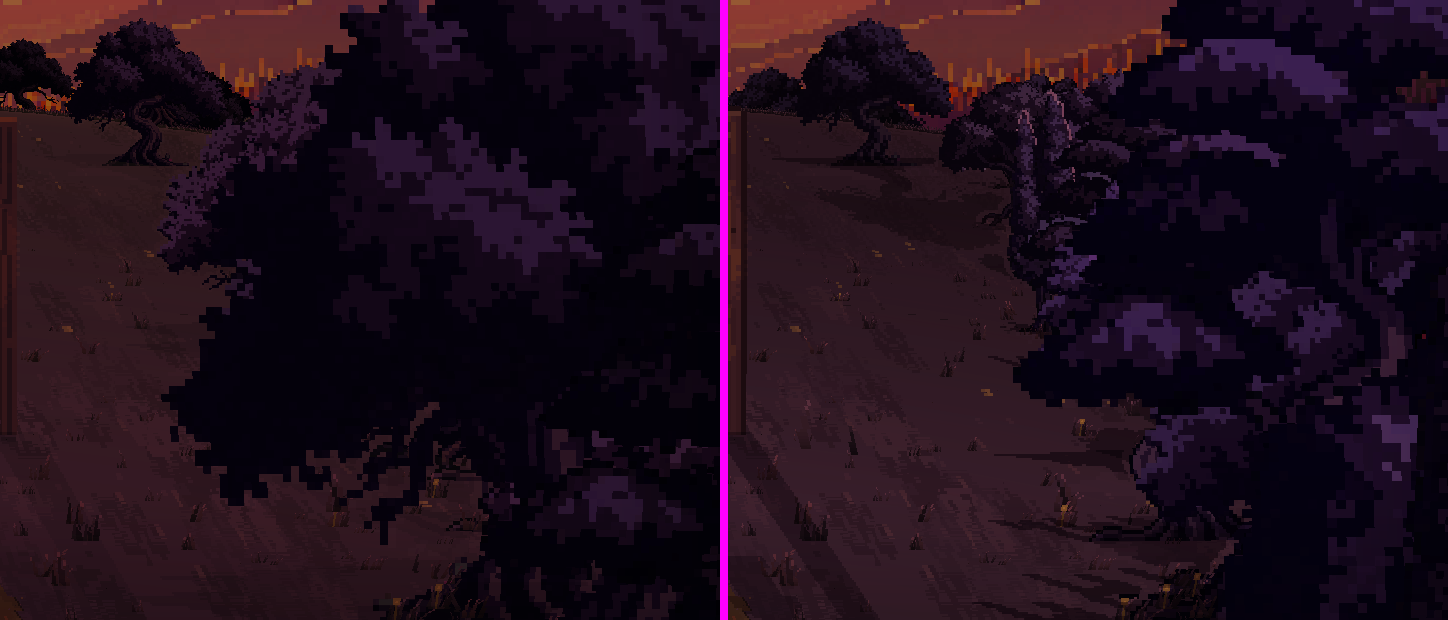
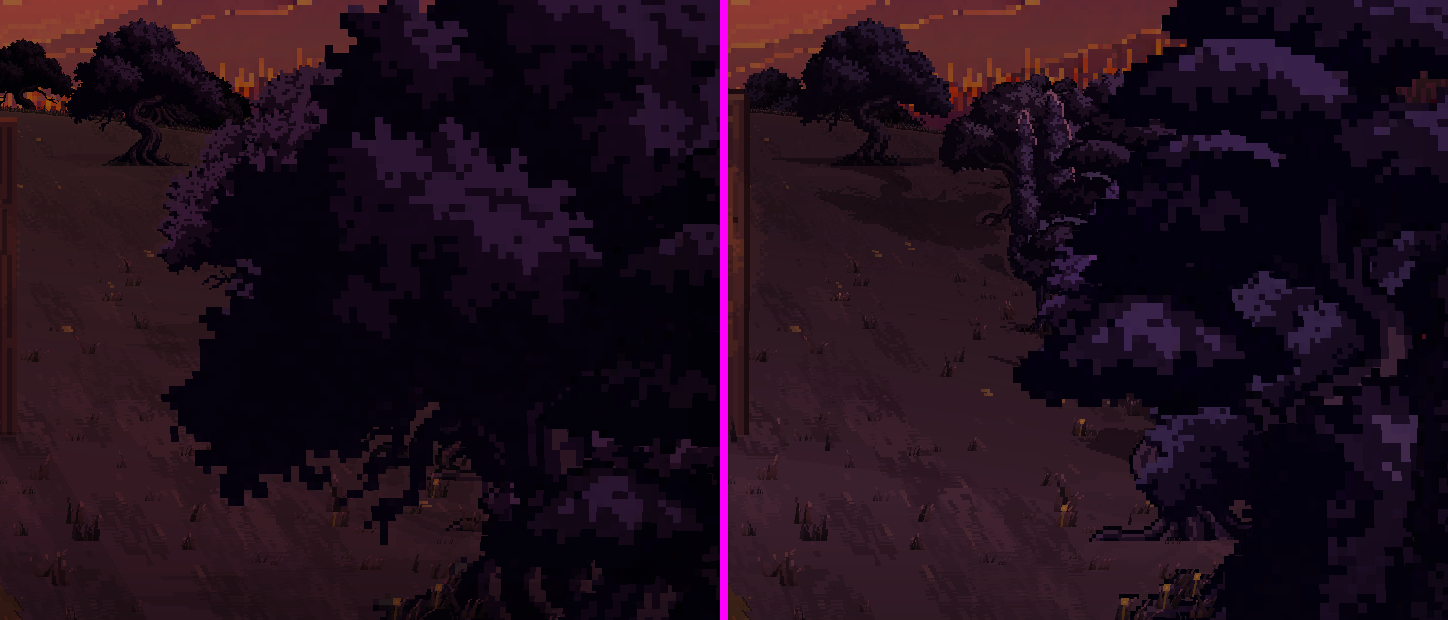
Ato 6: poste com a mesma altura do ato 1 e folha de coerencia dos seis atos
Medido pela regua do inimigo (escala_humana em 1080p), o poste novo do
crepusculo ficava 5% abaixo do poste dos campos em cada profundidade (572
contra 605 px em t 0,85). Tamanho 5,8 -> 6,1: agora 601 contra 605.

Folha seis_atos_batalha.png (antes e depois, tod 0,65 e 0,95) e
coerencia_seis_atos.md com a regua das luminarias de estrada, castelo e
sombras dos seis atos. As frentes dos atos 2 a 5 ainda nao tinham
commitado: as colunas delas mostram o estado anterior. Capturas e recortes
do ato 6 refeitos com o tamanho final.

diff --git a/tools/preview_out/replica_atos/coerencia_seis_atos.md b/tools/preview_out/replica_atos/coerencia_seis_atos.md
@@ -1,0 +1,36 @@
+# Coerência entre os seis atos no quadro de batalha 1080p (18/Out/2026, frente replica-6)
+
+Folha: `seis_atos_batalha.png` (linhas: antes 0,65 / depois 0,65 / antes 0,95 / depois 0,95).
+"Antes" = `base_antes/` no main `ed2484f1`, antes de qualquer frente de réplica.
+"Depois" = main `4d8ba0cd` + o ajuste de tamanho do poste do ato 6. **Quando esta folha foi montada,
+as frentes replica-23 (atos 2 e 3) e replica-45 (atos 4 e 5) ainda não tinham commitado nada**, então
+as colunas 2 a 5 mostram o estado de antes; as diferenças de props nessas colunas são variação entre
+execuções da captura, não mudança de código. Refazer com
+`python <scratchpad>/r6/sheet6.py <pasta com b{n}_battle_tod{0.65,0.95}.png>` quando elas entrarem.
+
+## Régua (inimigo = 279 px em t 0,385; `escala_humana coer:b1..b6`)
+
+| Ato | Luminária de estrada | Altura medida | Leitura |
+|-----|---------------------|---------------|---------|
+| 1 fields | poste 5,6 | 605 px em t 0,85, 129 em t 0,13 | referência: ~0,85x o inimigo na profundidade dele |
+| 2 highlands | braseiro 2,7 | 253 px em t 0,81 | objeto baixo (≈ 0,42 do poste), coerente com braseiro de chão |
+| 3 abyss | tocha 2,5 / braseiro 2,8 | 243 px em t 0,81 / 150 em t 0,48 | idem |
+| 4 frost | lanterna 1,8 | 171 px em t 0,87 | a mais baixa de todas; lanterna de mão no chão, lê pequena ao lado do inimigo (frente replica-45 decide) |
+| 5 marsh | poste 5,6 | 334 px em t 0,53 | igual ao ato 1 na mesma profundidade |
+| 6 dusk | poste 6,1 (arte nova) | 601 px em t 0,85, 344 em t 0,54 | igual ao ato 1 (ajustado nesta revisão: era 572 com 5,8) |
+
+Castelo na crista: 235 a 299 px em todos os atos (castelo do ato 3 o menor, do ato 4 o maior); a relação
+castelo/árvore da crista fica entre 1,8 e 2,5.
+
+## Sombra
+
+Atos 1 e 6: `shadow.alphaK` 2,2, árvores com sombra própria (`tree.alphaK` 1,45) e disco de copa; a sombra
+das árvores e dos postes aparece no quadro. Atos 2 a 5 ainda em `alphaK` 1,0 sem `tree`/`canopy`: as
+árvores não projetam sombra legível, então o quadro deles parece "sem sombra" perto dos atos 1 e 6. É o
+item que as frentes 23 e 45 precisam igualar para a intensidade ficar comparável.
+
+## Luminárias dia/noite
+
+Todas passam pelo mesmo `LuminaireEngine.dayK` (0 até tod 0,45, cheia em 0,85): em 0,65 todas acendem
+fracas e em 0,95 cheias, em todos os atos. A chama pintada no PNG fica sempre (decisão do ato 1). Nada
+divergente encontrado.

diff --git a/tools/preview_out/replica_atos/dusk/checklist.md b/tools/preview_out/replica_atos/dusk/checklist.md
@@ -21,7 +21,7 @@ Recortes antes|depois em `recortes/` (lado esquerdo = antes, direito = depois).
 |---|-------|--------|-----------|
 | 1 | Sombra natural, nascendo da base, sem sombra de trás pintando a frente | sim: sombra de árvore e de poste aparece agora (antes não existia), 3 degraus, cai para a câmera (sol atrás do castelo) | `arvores_dir_tod0.65.png`, `poste_meio_tod0.95.png` |
 | 2 | Árvore nunca mais clara/enevoada que o chão ao lado | sim: `treeDepth` do ato 1 (véu = curva do chão, sem filtro branco); copa do meio fica escura contra o sol, perto mais saturada | `arvores_esq_tod0.65.png` |
-| 3 | Escala pelo inimigo | sim: poste ~0,9x o inimigo na profundidade dele (tamanho 5,8 com a arte nova de 62 px de altura útil; antiga tinha 63 px e 5,6); árvore adulta acima do poste; fogueira menor que 0,6x | `objetos.md` |
+| 3 | Escala pelo inimigo | sim: poste ~0,9x o inimigo na profundidade dele (tamanho 6,1: mesma altura do poste do ato 1 em cada profundidade, 601 px contra 605 em t 0,85); árvore adulta acima do poste; fogueira menor que 0,6x | `objetos.md` |
 | 4 | Árvores variadas, sem repetir vizinha | sim: 3 → 7 variantes (choupo estreito, carmim de outono, meio pelada, chorona), `variants.dusk_tree = 7` liga o `makeWall` sem repetir | `recortes/candidatas_arvores.png`, `depois/b6_*_viagem.png` |
 | 5 | Lado iluminado para o sol | sim: arte nova pedida com contraluz (só aro quente no topo, lados iguais), por isso sem `lit` e espelho livre | `candidatas_arvores.png` |
 | 6 | Luminária apagada de dia, acesa no entardecer | sim: motor comum (`dayK`); o ato 6 vive em tod alto, então acende; a chama pintada fica, como no ato 1 | `poste_meio_tod0.65/0.95.png` |

diff --git a/tools/preview_out/replica_atos/dusk/objetos.md b/tools/preview_out/replica_atos/dusk/objetos.md
@@ -4,7 +4,7 @@ Régua: inimigo comum em 1080p = 279 px em t = 0,385 (`escala_humana r6v3:b6`).
 
 | Objeto | Escala para o inimigo | Contato | Oclusão | Sombra | Cor | Veredito | Arte |
 |--------|----------------------|---------|---------|--------|-----|----------|------|
-| Poste com lanterna (`dusk_lantern_0`) | ~0,9x na profundidade do inimigo (350 px em t 0,54 com tamanho 6,2; final 5,8) | faixa de contato na base | tufos do motor comum | projetada para a câmera, 3 degraus | madeira uniforme, vidro âmbar | ok | REGERADA (PixelLab `create_image_pro`, 9 candidatas, escolhida `lamp__0`); 9 quadros de cintilação refeitos só no vidro |
+| Poste com lanterna (`dusk_lantern_0`) | ~0,85x na profundidade do inimigo, igual ao ato 1 (tamanho 6,1: 601 px em t 0,85 contra 605 do poste dos campos) | faixa de contato na base | tufos do motor comum | projetada para a câmera, 3 degraus | madeira uniforme, vidro âmbar | ok | REGERADA (PixelLab `create_image_pro`, 9 candidatas, escolhida `lamp__0`); 9 quadros de cintilação refeitos só no vidro |
 | Árvore redonda (`dusk_tree_0`) | 0,9 a 1,3x | contato + disco de copa (perto) | tufos | sim | púrpura, grade do ato 1 | ok | mantida |
 | Árvore em patamares (`dusk_tree_1`) | idem | idem | idem | sim | idem | ok | mantida |
 | Árvore larga (`dusk_tree_2`) | idem (sizeK 0,9) | idem | idem | sim | idem | ok | mantida |

diff --git a/memory/worldroad_scene.md b/memory/worldroad_scene.md
@@ -298,7 +298,7 @@ leitosas, "sem sombra", lanterna acesa de dia, árvores da crista do tamanho do 
   `variants.dusk_tree = 7`), porque a parede era uma massa roxa única. Poste regenerado (madeira
   sem a faixa laranja pintada e sem a mão-francesa quadriculada) e cintilação refeita só no vidro em
   `anim/dusk_lantern_0/` (o `anim/` tem prioridade sobre o PNG solto: trocar só o PNG não muda nada);
-  tamanho 5,8 porque a arte nova é 1 px mais baixa.
+  tamanho 6,1 para o poste medir o mesmo que o do ato 1 em cada profundidade (601 x 605 px em t 0,85).
 
 # Histórico — v1-v3 (projeção plana por scanline, SUBSTITUÍDA)
 
